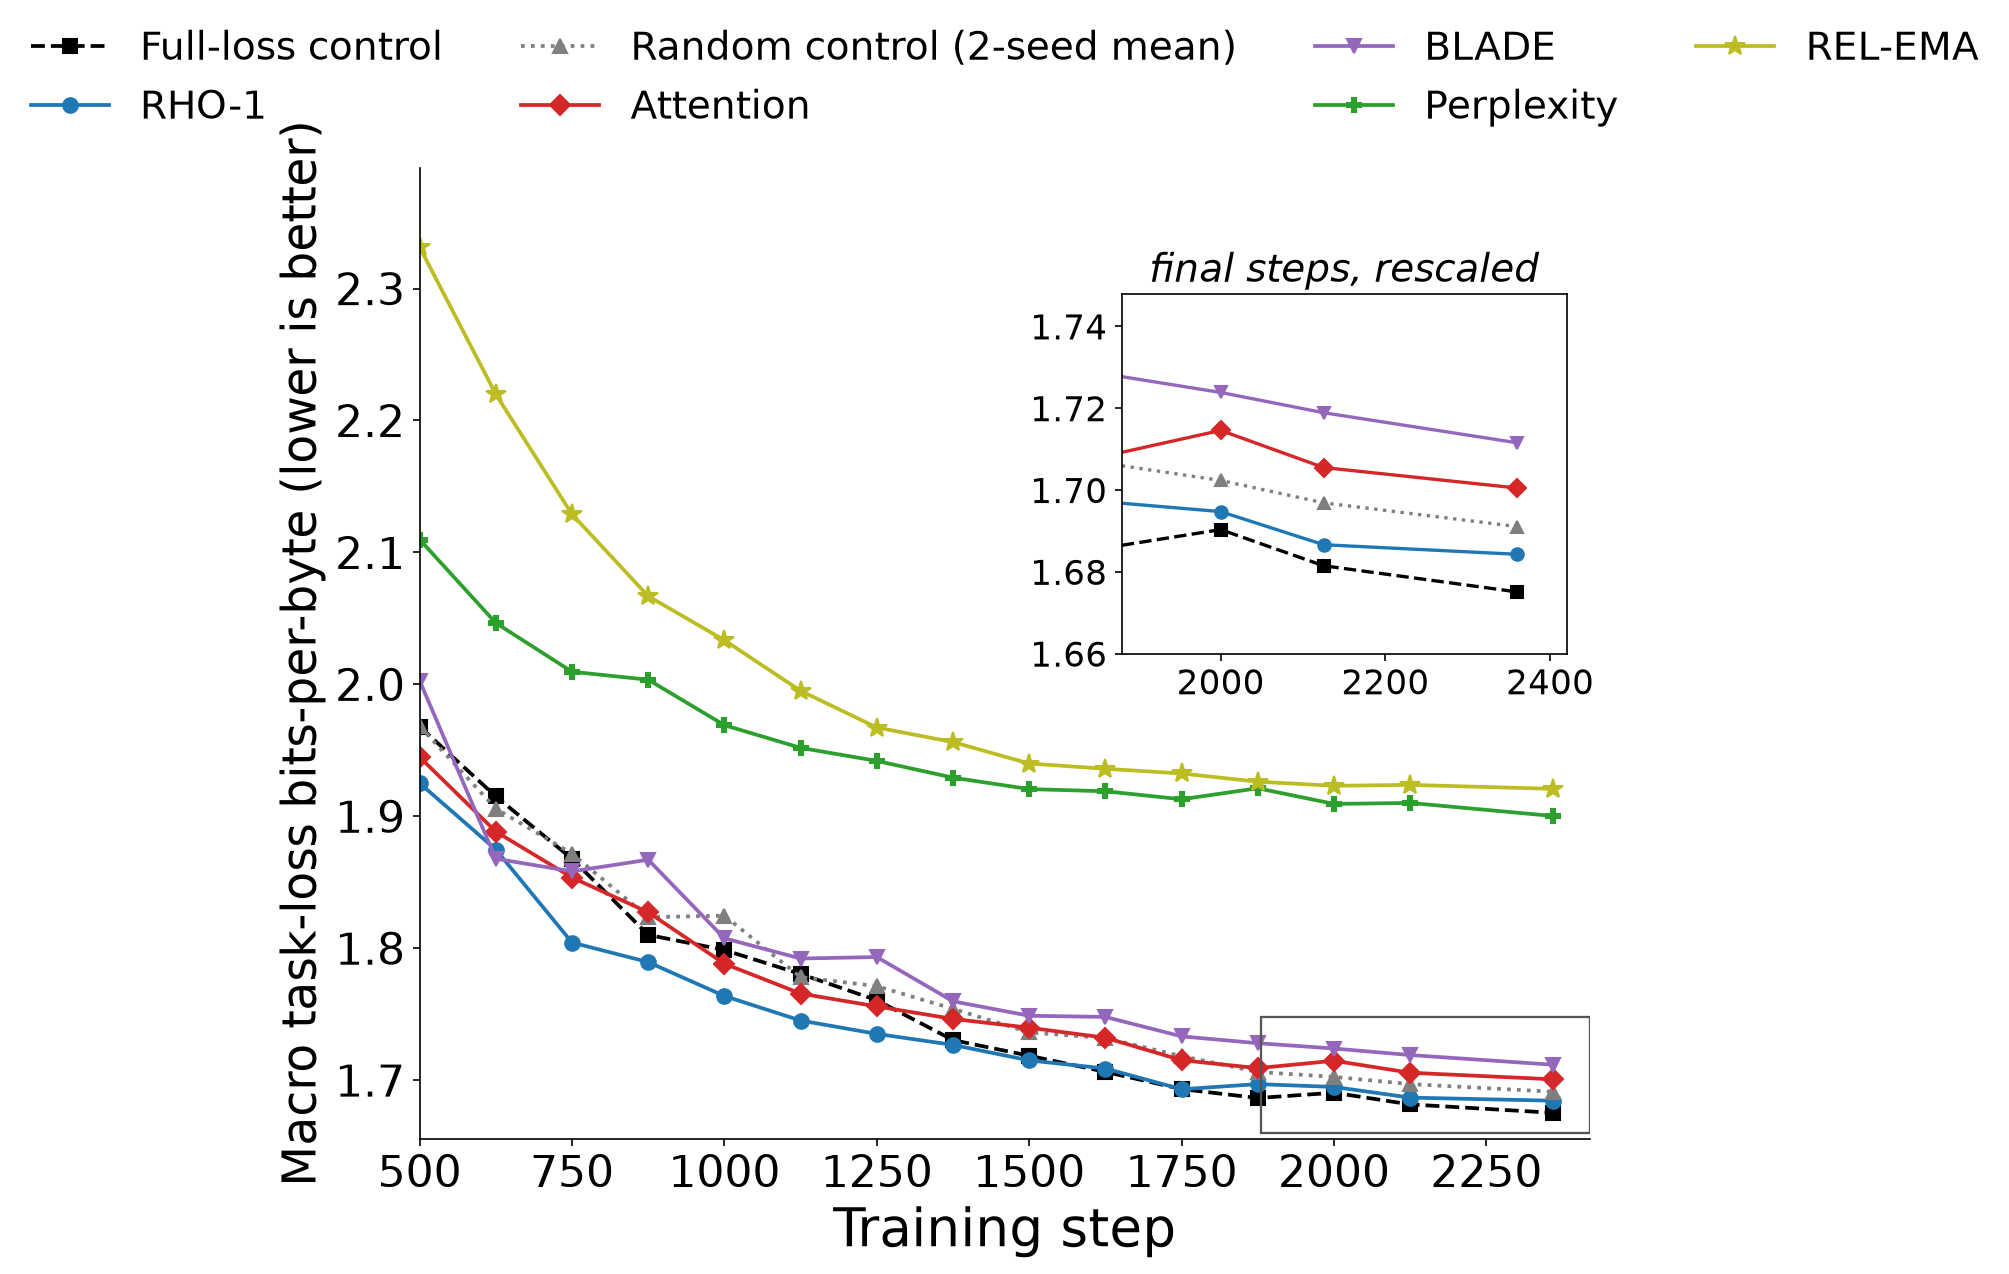
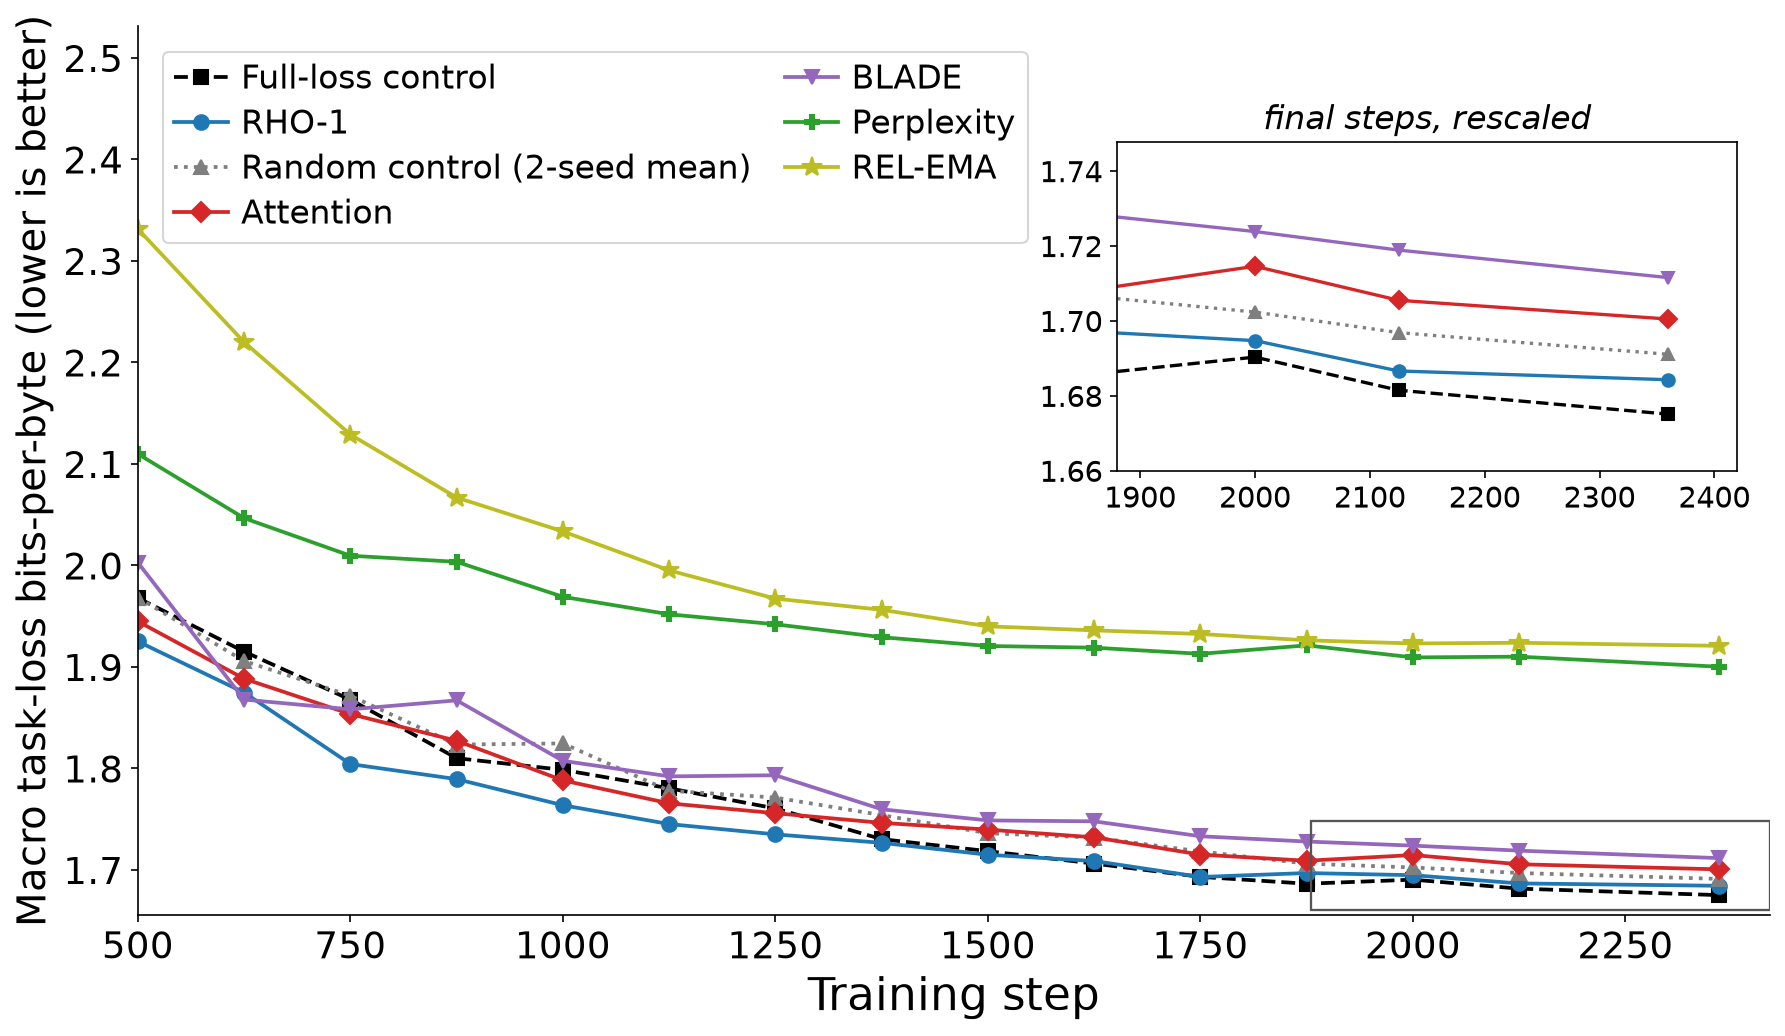
Revert Figure 1's layout; cap its font scale at the largest collision-free value
The previous commit enlarged the fonts by moving Figure 1's legend above the
axes and growing the canvas. That changed the composition, which was not the
point. This restores the original layout -- 12 x 6.9333in canvas, two-column
legend inside the axes, inset upper right, +0.20 ylim headroom -- and instead
treats the font scale as the thing to maximize.

Sizes are now base * F1 (Figure 1) and base * F2 (Figure 2), so the scale is a
single knob. F2 stays at 1.5; Figure 2 had room for it. F1 is capped by a real
collision: the legend widens toward the inset as the type grows, and its last
entry eventually overprints the inset's topmost y-ticklabel.

Measured on the rendered figure by comparing the legend's rightmost glyph box
against the inset's leftmost ticklabel box:

  legend centred at 0.32, default padding   ceiling ~1.05
  padding tightened                         ceiling  1.15
  padding tightened + anchored left         ceiling  1.28  (1.29 wraps wider)

So F1 = 1.28, a 28% increase, with ~24px of clearance. Getting there needed the
legend moved to the axes' left edge, which is the one position change here.

Figure 2's PNG is byte-identical to the previous commit.

diff --git a/experiments/token-selection/fit_and_plot.py b/experiments/token-selection/fit_and_plot.py
@@ -110,6 +110,15 @@ N_PARAMS = 3
 # on average, so resampling them unrescaled understates the spread -- badly
 # here, where n is 11 (22 for the pooled random control) against p = 3.
 RESCALE_RESIDUALS = True
+# Font scale, applied to the original (1.0x) sizes in each figure. Figure 2 has
+# room for the full 1.5. Figure 1 does not: its legend sits inside the axes and
+# widens toward the inset as the type grows, and once the last legend entry
+# reaches the inset's topmost y-ticklabel the two overprint. Measured on the
+# rendered figure, 1.28 clears it by ~24px and 1.29 does not -- the legend wraps
+# wider there. Anchoring the legend at the axes' left edge and tightening its
+# internal padding (both below) are what raise the ceiling from ~1.05 to this.
+F1 = 1.28
+F2 = 1.5
 # Wide enough that no arm's profiled optimum lands on a boundary; see docstring.
 ALPHA_GRID = np.linspace(0.05, 6.0, 1192)
 ALPHA_FREE = True
@@ -450,9 +459,7 @@ def figure1(results: dict[str, dict], fig_dir: Path) -> None:
     import matplotlib.pyplot as plt
     from matplotlib.patches import Rectangle
 
-    # Height only: the paper scales this to 	extwidth, so extra height costs
-    # no on-page text size, while extra width would shrink every label.
-    fig, ax = plt.subplots(figsize=(12, 8.6), dpi=150)
+    fig, ax = plt.subplots(figsize=(12, 6.9333), dpi=150)
 
     for key in ORDER:
         r = results[key]
@@ -468,25 +475,32 @@ def figure1(results: dict[str, dict], fig_dir: Path) -> None:
             label=LEGEND[key],
         )
 
-    ax.set_xlabel("Training step", fontsize=25.5)
-    ax.set_ylabel("Macro task-loss bits-per-byte (lower is better)", fontsize=22.5)
+    ax.set_xlabel("Training step", fontsize=17 * F1)
+    ax.set_ylabel("Macro task-loss bits-per-byte (lower is better)", fontsize=15 * F1)
     # No in-figure title: the LaTeX caption carries it, and duplicating it both
     # wastes vertical space and reads as a typo in print.
     ax.set_xlim(500, 2420)
-    ax.tick_params(labelsize=21)
+    ax.tick_params(labelsize=14 * F1)
     for side in ("top", "right"):
         ax.spines[side].set_visible(False)
-    # Small headroom only: the legend now sits above the axes, not inside them.
+    # Headroom above the highest curve so the legend does not sit on top of
+    # REL-EMA's first few points.
     vals = [r["loss"][r["steps"] >= 500] for r in (results[k] for k in ORDER)]
-    ax.set_ylim(min(v.min() for v in vals) - 0.02, max(v.max() for v in vals) + 0.06)
-    # Above the axes, not inside: at this font size an in-axes legend covers
-    # the y-tick labels and runs into the inset.
+    ax.set_ylim(min(v.min() for v in vals) - 0.02, max(v.max() for v in vals) + 0.20)
+    # Anchored at the axes' left edge rather than centred, and with tighter
+    # internal padding than the matplotlib defaults. Both exist to widen the gap
+    # to the inset: the legend now grows rightward only, from a fixed left edge,
+    # so the larger type still clears the inset's y-ticklabels.
     ax.legend(
-        fontsize=18.75,
-        ncol=4,
-        loc="lower center",
-        bbox_to_anchor=(0.5, 1.005),
-        frameon=False,
+        fontsize=12.5 * F1,
+        ncol=2,
+        loc="upper left",
+        bbox_to_anchor=(0.005, 0.99),
+        columnspacing=1.0,
+        handletextpad=0.4,
+        handlelength=1.6,
+        borderpad=0.35,
+        labelspacing=0.35,
     )
 
     # Rescaled inset over the final steps.
@@ -533,8 +547,8 @@ def figure1(results: dict[str, dict], fig_dir: Path) -> None:
     # topmost label is drawn over the inset frame and reads as clipped.
     inset.set_ylim(min(tail) - 0.012, max(tail) + 0.024)
     inset.set_yticks(np.arange(1.66, 1.741, 0.02))
-    inset.set_title("final steps, rescaled", fontsize=18.75, style="italic")
-    inset.tick_params(labelsize=16.5)
+    inset.set_title("final steps, rescaled", fontsize=12.5 * F1, style="italic")
+    inset.tick_params(labelsize=11 * F1)
     inset.set_facecolor("white")
     inset.set_zorder(6)
     inset.patch.set_alpha(1.0)
@@ -608,14 +622,14 @@ def figure2(results: dict[str, dict], fig_dir: Path) -> None:
             zorder=4,
         )
     for yi, val, hi in zip(y, fitted, ci_hi):
-        ax.text(hi + 0.0045, yi, f"{val:.4f}", va="center", ha="left", fontsize=18)
+        ax.text(hi + 0.0045, yi, f"{val:.4f}", va="center", ha="left", fontsize=12 * F2)
 
     ax.set_yticks(y)
-    ax.set_yticklabels([LABEL[k] for k in order], fontsize=19.5)
+    ax.set_yticklabels([LABEL[k] for k in order], fontsize=13 * F2)
     ax.set_ylim(-0.65, len(order) - 0.35)
     ax.set_xlim(ci_lo.min() - 0.012, ci_hi.max() + 0.075)
-    ax.set_xlabel("Fitted-final macro task-loss bpb (lower is better)", fontsize=19.5)
-    ax.tick_params(axis="x", labelsize=18)
+    ax.set_xlabel("Fitted-final macro task-loss bpb (lower is better)", fontsize=13 * F2)
+    ax.tick_params(axis="x", labelsize=12 * F2)
     ax.grid(axis="x", color="#dddddd", linewidth=0.8)
     ax.set_axisbelow(True)
     for side in ("top", "right", "left"):
